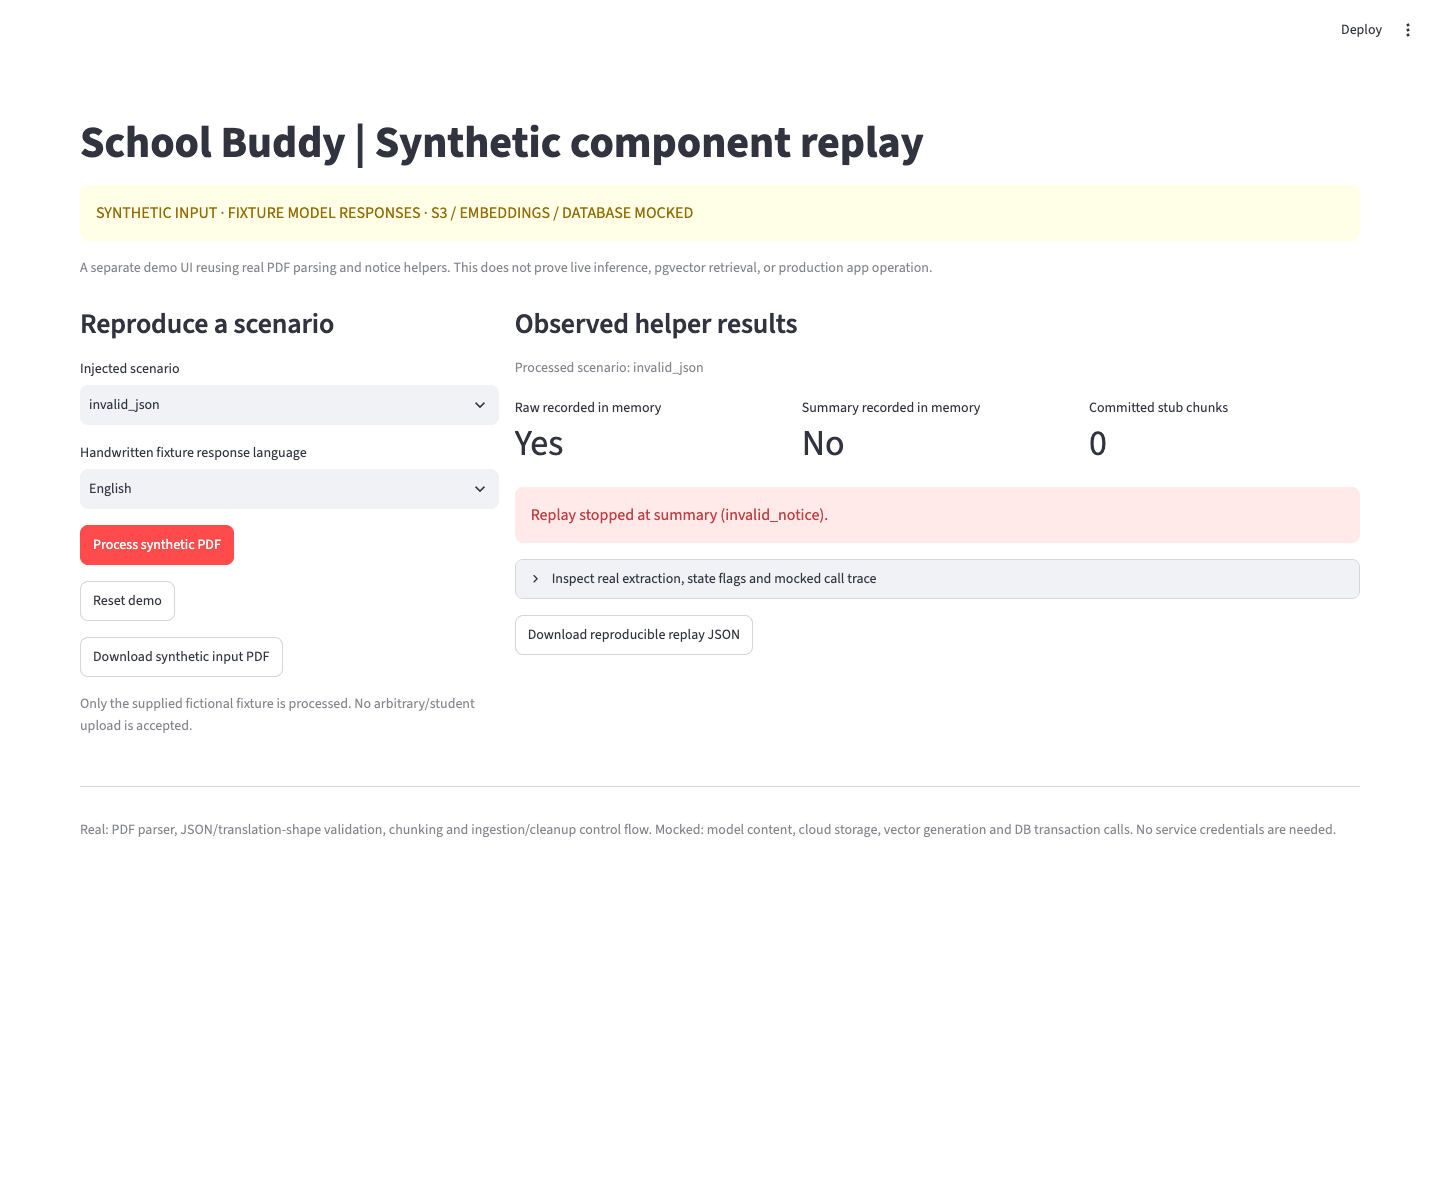
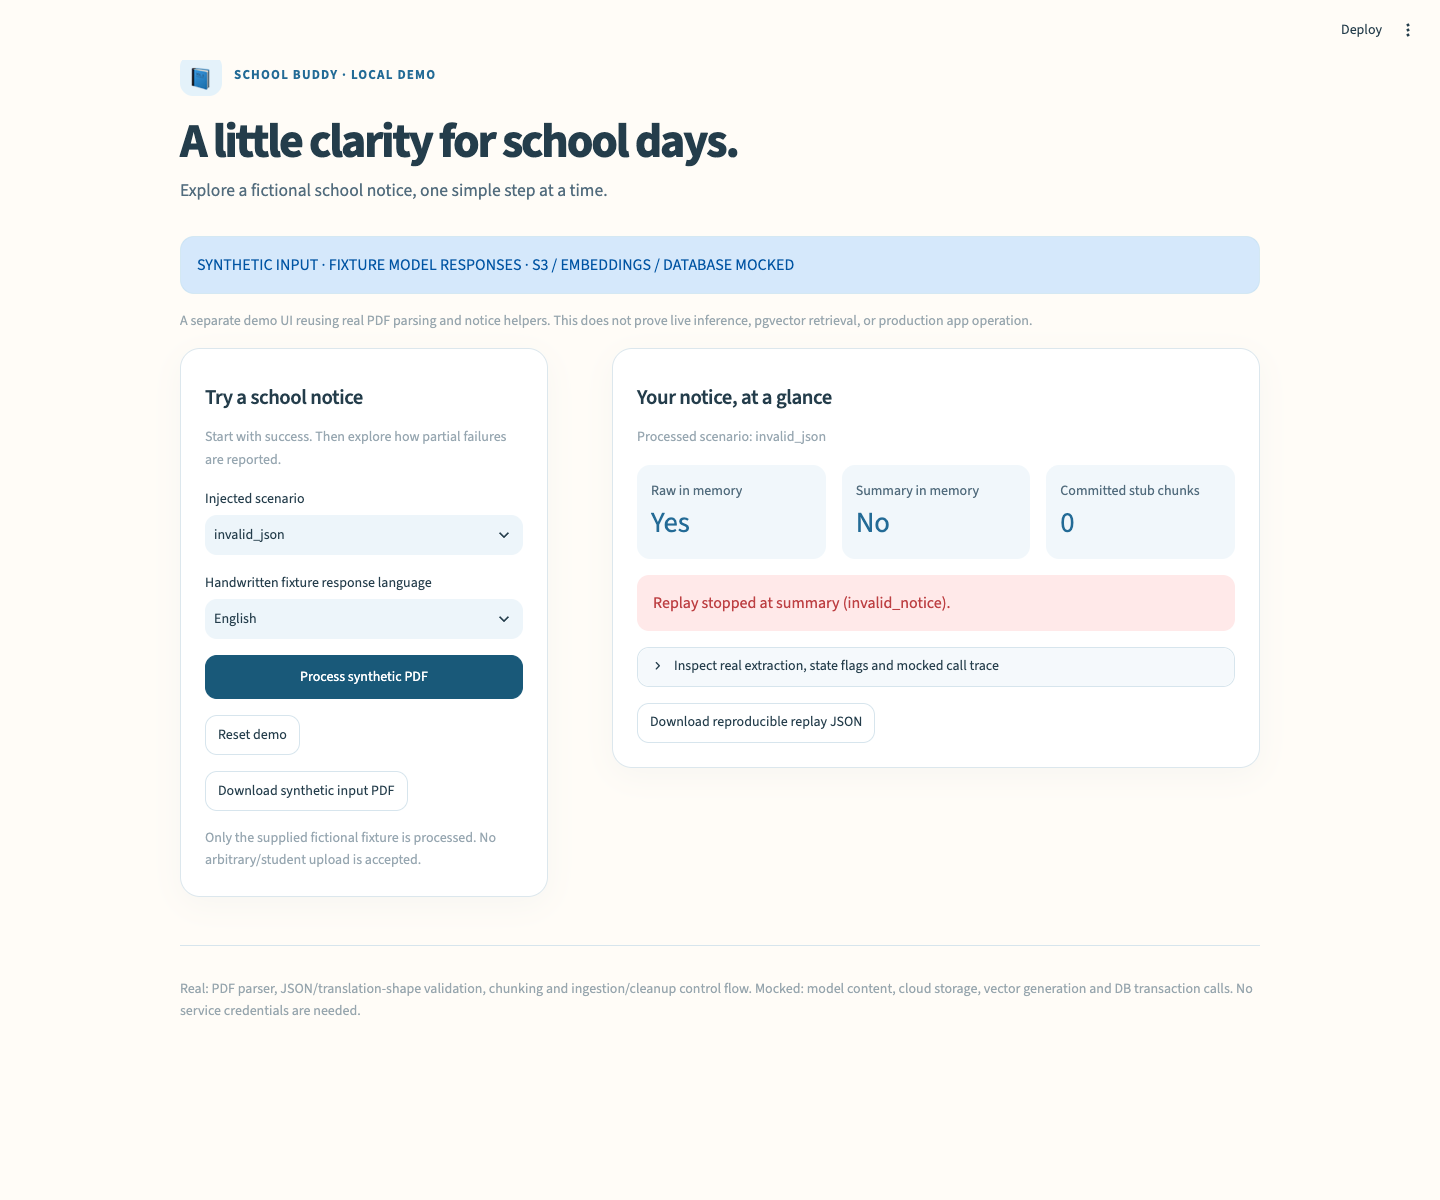
Give the synthetic notice demo a light SchoolBuddy interface

diff --git a/demo_style.css b/demo_style.css
@@ -1,0 +1,92 @@
+/* Local synthetic demo only. No imported fonts, scripts or remote assets. */
+[data-testid="stApp"] {
+  background: #fffcf7;
+  color: #243d4b;
+  color-scheme: light;
+}
+[data-testid="stHeader"] { background: #fffcf7; }
+[data-testid="stMainBlockContainer"] {
+  max-width: 1240px;
+  padding-top: 3.4rem;
+  padding-bottom: 2.5rem;
+}
+.buddy-brand {
+  display: flex;
+  align-items: center;
+  gap: 12px;
+  color: #236b96;
+  font-size: 13px;
+  font-weight: 700;
+  letter-spacing: 0.09em;
+}
+.buddy-book {
+  width: 42px;
+  height: 42px;
+  padding: 8px;
+  display: grid;
+  place-items: center;
+  font-size: 22px;
+  border-radius: 13px;
+  background: #e4f2fa;
+}
+.buddy-hero h1 {
+  margin: 18px 0 7px;
+  color: #243d4b;
+  font-size: clamp(2.1rem, 4vw, 3rem);
+  font-weight: 720;
+  letter-spacing: -0.045em;
+  line-height: 1.13;
+}
+.buddy-hero p {
+  margin: 0 0 16px;
+  color: #526c7d;
+  font-size: 1.1rem;
+}
+.st-key-demo_disclosure [data-testid="stAlert"] {
+  background: #eaf4fa;
+  color: #285c78;
+  border: 1px solid #d4e8f3;
+  border-radius: 14px;
+}
+.st-key-demo_controls, .st-key-demo_results {
+  background: #ffffff;
+  border: 1px solid #dce7ed !important;
+  border-radius: 20px !important;
+  padding: 24px !important;
+  box-shadow: 0 8px 30px rgba(31, 77, 104, 0.035);
+}
+.st-key-demo_controls h3, .st-key-demo_results h3 {
+  color: #243d4b;
+  font-size: 1.3rem;
+  letter-spacing: -0.02em;
+}
+[data-testid="stCaptionContainer"], [data-testid="stCaptionContainer"] p { color: #526c7d; }
+[data-testid="stMetric"] {
+  padding: 14px;
+  background: #f1f7fb;
+  border-radius: 13px;
+}
+[data-testid="stMetricLabel"] { color: #526c7d; }
+[data-testid="stMetricValue"] { color: #236b96; font-size: 1.8rem; }
+.st-key-demo_notice_card {
+  background: #f9fcfe;
+  border: 1px solid #deedf4 !important;
+  border-radius: 15px !important;
+  padding: 20px !important;
+}
+.st-key-demo_notice_card h3 { font-size: 1.15rem; }
+[data-testid="stBaseButton-primary"] {
+  background: #236b96;
+  color: white;
+  border-color: #236b96;
+  min-height: 44px;
+  font-weight: 600;
+}
+[data-testid="stBaseButton-primary"]:hover { background: #195979; border-color: #195979; }
+button:focus-visible { outline: 3px solid #68a9ce !important; outline-offset: 3px; }
+[data-testid="stExpander"] { border-color: #dce7ed; }
+[data-testid="stExpander"] summary { background: #f5f9fc; }
+@media (max-width: 640px) {
+  [data-testid="stMainBlockContainer"] { padding: 5rem 1rem 2rem; }
+  .st-key-demo_controls, .st-key-demo_results { padding: 18px !important; }
+}

diff --git a/demo_notice.py b/demo_notice.py
@@ -4,30 +4,40 @@ import json
 
 import streamlit as st
 
-from demo_replay import PDF_PATH, SCENARIOS, fixture_responses, run_demo
+from demo_replay import PDF_PATH, ROOT, SCENARIOS, fixture_responses, run_demo
 from notice_helpers import translated_notice_or_original
 
 
-st.set_page_config(page_title="School Buddy - synthetic component demo", page_icon="📄", layout="wide")
-st.title("School Buddy | Synthetic component replay")
-st.warning("SYNTHETIC INPUT · FIXTURE MODEL RESPONSES · S3 / EMBEDDINGS / DATABASE MOCKED")
+st.set_page_config(page_title="School Buddy - synthetic component demo", page_icon="📘", layout="wide")
+st.html(ROOT / "demo_style.css")
+st.html('''<header class="buddy-hero">
+  <div class="buddy-brand">
+    <span class="buddy-book" aria-hidden="true">📘</span>
+    <span>SCHOOL BUDDY · LOCAL DEMO</span>
+  </div>
+  <h1>A little clarity for school days.</h1>
+  <p>Explore a fictional school notice, one simple step at a time.</p>
+</header>''')
+with st.container(key="demo_disclosure"):
+    st.info("SYNTHETIC INPUT · FIXTURE MODEL RESPONSES · S3 / EMBEDDINGS / DATABASE MOCKED")
 st.caption("A separate demo UI reusing real PDF parsing and notice helpers. This does not prove live inference, pgvector retrieval, or production app operation.")
 
-left, right = st.columns([1, 2])
-with left:
-    st.subheader("Reproduce a scenario")
+left, right = st.columns([1, 1.7], gap="large")
+with left, st.container(border=True, key="demo_controls"):
+    st.subheader("Try a school notice")
+    st.caption("Start with success. Then explore how partial failures are reported.")
     scenario = st.selectbox("Injected scenario", SCENARIOS, key="demo_scenario")
     fixtures = fixture_responses()
     language = st.selectbox("Handwritten fixture response language", list(fixtures["translations"]), key="demo_language")
-    if st.button("Process synthetic PDF", type="primary", key="demo_run"):
+    if st.button("Process synthetic PDF", type="primary", key="demo_run", width="stretch"):
         st.session_state["demo_snapshot"] = run_demo(scenario)
     if st.button("Reset demo", key="demo_reset"):
         st.session_state.pop("demo_snapshot", None)
     st.download_button("Download synthetic input PDF", PDF_PATH.read_bytes(), "synthetic-notice.pdf", "application/pdf")
     st.caption("Only the supplied fictional fixture is processed. No arbitrary/student upload is accepted.")
 
-with right:
-    st.subheader("Observed helper results")
+with right, st.container(border=True, key="demo_results"):
+    st.subheader("Your notice, at a glance")
     snapshot = st.session_state.get("demo_snapshot")
     if snapshot is None:
         st.info("No synthetic notice processed yet. Choose a scenario and process the provided PDF.")
@@ -35,8 +45,8 @@ with right:
         result = snapshot["result"]
         st.caption(f"Processed scenario: {snapshot['scenario']}")
         a, b, c = st.columns(3)
-        a.metric("Raw recorded in memory", "Yes" if result["raw_saved"] else "No")
-        b.metric("Summary recorded in memory", "Yes" if result["summary_saved"] else "No")
+        a.metric("Raw in memory", "Yes" if result["raw_saved"] else "No")
+        b.metric("Summary in memory", "Yes" if result["summary_saved"] else "No")
         c.metric("Committed stub chunks", result["indexed_chunks"])
         if result["indexed"]:
             st.success("Local replay complete: mock commit returned before indexing was marked successful.")
@@ -46,13 +56,20 @@ with right:
             st.error(f"Replay stopped at {result['failed_stage']} ({result['error_code']}).")
         if snapshot["notice"]:
             notice = translated_notice_or_original(snapshot["notice"], fixtures["translations"][language])
-            st.caption("Notice card: handwritten response fixture; shape validation is real, translation quality is not measured.")
-            st.subheader(notice["title"])
-            st.write(notice["summary"])
-            st.json(notice["details"])
-        with st.expander("Inspect real extraction, state flags and mocked call trace", expanded=True):
+            with st.container(border=True, key="demo_notice_card"):
+                st.caption("Handwritten response fixture · Translation quality is not measured")
+                st.subheader(notice["title"])
+                st.write(notice["summary"])
+                date_time, place_action = st.columns(2)
+                with date_time:
+                    st.caption("DATE & TIME")
+                    st.write(f"{notice['details']['date']} · {notice['details']['time']}")
+                with place_action:
+                    st.caption("PLACE & PREPARATION")
+                    st.write(f"{notice['details']['place']} · {notice['details']['action']}")
+        with st.expander("Inspect real extraction, state flags and mocked call trace", expanded=False):
             st.text(snapshot["extracted_text"] or "No text available after this injected failure.")
-            st.json({"result": result, "stored_keys": snapshot["stored_keys"], "fixture_sha256": snapshot["fixture_sha256"]})
+            st.json({"result": result, "notice": snapshot["notice"], "stored_keys": snapshot["stored_keys"], "fixture_sha256": snapshot["fixture_sha256"]})
             st.dataframe(snapshot["trace"], hide_index=True, width="stretch")
         st.download_button("Download reproducible replay JSON", json.dumps(snapshot, ensure_ascii=False, indent=2),
                            f"synthetic-{snapshot['scenario']}.json", "application/json")

diff --git a/tools/capture_demo.py b/tools/capture_demo.py
@@ -32,7 +32,7 @@ def capture(url, executable=None):
             options["executable_path"] = executable
         browser = playwright.chromium.launch(**options)
         context = browser.new_context(viewport={"width": 1440, "height": 1200},
-                                      device_scale_factor=1, locale="en-US")
+                                      device_scale_factor=1, locale="en-US", color_scheme="dark")
 
         def route_request(route):
             if urlparse(route.request.url).hostname in ("127.0.0.1", "localhost"):
@@ -59,10 +59,16 @@ def capture(url, executable=None):
         page.goto(url, wait_until="domcontentloaded", timeout=30000)
         expect(page.get_by_text("No synthetic notice processed yet.", exact=False)).to_be_visible()
         expect(page.get_by_text(BANNER, exact=True)).to_be_visible()
+        expect(page.get_by_test_id("stApp")).to_have_css("background-color", "rgb(255, 252, 247)")
+        scenario_input = page.get_by_role("combobox", name="Injected scenario", exact=True)
+        expect(scenario_input.locator("..")).to_have_css("background-color", "rgb(237, 245, 250)")
+        expect(scenario_input).to_have_css("color", "rgb(36, 61, 75)")
+        expect(page.get_by_text("Start with success.", exact=False)).to_have_css("color", "rgb(82, 108, 125)")
         page.evaluate("document.fonts.ready")
         screenshot("empty")
         page.get_by_role("button", name="Process synthetic PDF", exact=True).click()
         expect(page.get_by_text("Local replay complete:", exact=False)).to_be_visible()
+        expect(page.get_by_role("button", name="Download reproducible replay JSON", exact=True)).to_be_visible()
         screenshot("success")
         for scenario in ("missing_db", "invalid_json"):
             page.get_by_role("combobox").nth(0).click()
@@ -73,15 +79,26 @@ def capture(url, executable=None):
             else:
                 expect(page.get_by_text("Replay stopped at summary (invalid_notice).", exact=True)).to_be_visible()
             expect(page.get_by_text(BANNER, exact=True)).to_be_visible()
+            expect(page.get_by_role("button", name="Download reproducible replay JSON", exact=True)).to_be_visible()
             screenshot(scenario)
         page.get_by_role("button", name="Reset demo", exact=True).click()
         expect(page.get_by_text("No synthetic notice processed yet.", exact=False)).to_be_visible()
+        page.set_viewport_size({"width": 390, "height": 1600})
+        expect(page.get_by_text(BANNER, exact=True)).to_be_visible()
+        expect(page.get_by_role("button", name="Process synthetic PDF", exact=True)).to_be_visible()
+        horizontal_overflow = page.evaluate("document.documentElement.scrollWidth > window.innerWidth")
+        if horizontal_overflow:
+            raise AssertionError("Mobile viewport has horizontal overflow")
+        screenshot("mobile_empty")
         if errors:
             raise AssertionError(f"Browser JavaScript errors: {errors}")
         evidence = {"browser": browser.version, "viewport": {"width": 1440, "height": 1200},
                     "states": ["empty", "success", "missing_db", "invalid_json", "reset"],
                     "javascript_errors": errors, "blocked_external_requests": blocked,
                     "request_audit_scope": "Playwright-routed browser-context HTTP/WebSocket requests only; not OS-wide egress isolation",
+                    "preferred_color_scheme": "dark",
+                    "observed_light_theme": {"background": "rgb(255, 252, 247)", "select_background": "rgb(237, 245, 250)", "caption_color": "rgb(82, 108, 125)"},
+                    "mobile_viewport": {"width": 390, "height": 1600, "horizontal_overflow": horizontal_overflow},
                     "mode": "actual local browser; fixture responses and services mocked",
                     "screenshot_view": "inspection panel collapsed; complete trace in replay JSON"}
         (output / "browser.json").write_text(json.dumps(evidence, indent=2) + "\n", encoding="utf-8")

diff --git a/tests/test_demo_replay.py b/tests/test_demo_replay.py
@@ -135,8 +135,8 @@ class StreamlitDemoTests(OfflineDemoTest):
     def test_empty_success_and_reset_ui_states(self):
         app = self.app()
         self.assertFalse(app.exception)
-        self.assertIn("MOCKED", app.warning[0].value)
-        self.assertIn("No synthetic notice", app.info[0].value)
+        self.assertIn("MOCKED", app.info[0].value)
+        self.assertTrue(any("No synthetic notice" in item.value for item in app.info))
         app.button(key="demo_run").click().run()
         self.assertFalse(app.exception)
         self.assertEqual([metric.value for metric in app.metric], ["Yes", "Yes", "2"])
@@ -144,7 +144,7 @@ class StreamlitDemoTests(OfflineDemoTest):
         app.button(key="demo_reset").click().run()
         self.assertFalse(app.exception)
         self.assertFalse(app.metric)
-        self.assertIn("No synthetic notice", app.info[0].value)
+        self.assertTrue(any("No synthetic notice" in item.value for item in app.info))
 
     def test_missing_database_and_invalid_json_ui_states(self):
         app = self.app()
@@ -156,7 +156,7 @@ class StreamlitDemoTests(OfflineDemoTest):
                 self.assertFalse(app.exception)
                 self.assertEqual([metric.value for metric in app.metric], expected)
                 if scenario == "missing_db":
-                    self.assertIn("indexing is incomplete", app.warning[1].value)
+                    self.assertTrue(any("indexing is incomplete" in item.value for item in app.warning))
                 else:
                     self.assertIn("invalid_notice", app.error[0].value)
 

diff --git a/tools/run_demo.py b/tools/run_demo.py
@@ -1,0 +1,25 @@
+"""Run this synthetic demo with its own light theme and loopback binding."""
+
+import argparse
+from pathlib import Path
+import subprocess
+import sys
+
+
+ROOT = Path(__file__).resolve().parents[1]
+
+
+def command(port):
+    return [sys.executable, "-m", "streamlit", "run", str(ROOT / "demo_notice.py"),
+            "--server.address", "127.0.0.1", "--server.port", str(port),
+            "--server.headless", "true", "--browser.gatherUsageStats", "false",
+            "--server.fileWatcherType", "none", "--theme.base", str(ROOT / "demo_theme.toml")]
+
+
+if __name__ == "__main__":
+    parser = argparse.ArgumentParser(description=__doc__)
+    parser.add_argument("--port", type=int, default=8512)
+    args = parser.parse_args()
+    if not 1024 <= args.port <= 65535:
+        parser.error("Use a port between 1024 and 65535")
+    raise SystemExit(subprocess.call(command(args.port), cwd=ROOT))

diff --git a/docs/synthetic-demo.md b/docs/synthetic-demo.md
@@ -12,10 +12,12 @@ From the `model_optimization` code line containing this demo, use Python 3.11 or
 python3 -m venv .venv
 source .venv/bin/activate
 python -m pip install -r requirements-demo.txt
-python -m streamlit run demo_notice.py --server.address 127.0.0.1 --server.port 8512 --server.headless true --browser.gatherUsageStats false
+python tools/run_demo.py --port 8512
 ```
 
 Open `http://127.0.0.1:8512`. Process the supplied PDF, inspect state flags and the call trace, change the handwritten response language, and reset. Changing the scenario selector does not process anything until **Process synthetic PDF** is clicked. The result identifies its processed scenario.
+
+The launcher applies this demo's local `demo_theme.toml`: warm white background, soft sky-blue controls and readable notice cards. It binds only to loopback, disables usage telemetry and leaves global/project Streamlit configuration unchanged. The synthetic/mock disclosure stays above the controls, and full extraction/state data remains available in the expandable inspection panel. No remote fonts or images are added.
 
 No `.env` or service keys are needed. This entrypoint does not import `test_jaeuk.py`, `boto3`, `psycopg2`, Gemini or Bedrock clients. Objects and rows exist only within each replay's Python memory. There is no arbitrary file upload, external program feed or chat panel.
 
@@ -62,6 +64,7 @@ The supplied one-page [synthetic PDF](../fixtures/synthetic-notice.pdf) contains
 | Evidence | Artifact |
 | --- | --- |
 | Empty screen | [Actual local browser screenshot](demo-evidence/empty.png) |
+| Mobile empty screen | [390-pixel-wide local capture](demo-evidence/mobile_empty.png) |
 | Success | [Screenshot](demo-evidence/success.png) · [replay JSON](demo-evidence/success.json) |
 | DB unavailable | [Screenshot](demo-evidence/missing_db.png) · [replay JSON](demo-evidence/missing_db.json) |
 | Invalid response | [Screenshot](demo-evidence/invalid_json.png) · [replay JSON](demo-evidence/invalid_json.json) |
@@ -80,7 +83,7 @@ python -m compileall -q test_jaeuk.py notice_helpers.py notice_inputs.py demo_no
 
 [`test_demo_replay.py`](../tests/test_demo_replay.py) patches `socket.create_connection`, `socket.socket.connect` and `socket.socket.connect_ex` and covers actual PDF extraction, app PDF/image routing, all injected failure stages, deterministic evidence, four fixture-language cards and empty/success/reset/error states through Streamlit AppTest. A mocked WebSocket-route regression verifies that non-local attempts are recorded and closed while local routes continue. The earlier helper regression suite remains included. Tests do not import the service-backed app. These Python TCP patches are not an OS-wide egress sandbox.
 
-Local validation on Python 3.14.4 passed **33 tests / 63 subtests**, scoped lint and compilation. `python -m unittest discover -s tests -q` also passed all 33 tests. Actual Chrome 153 capture checked empty, success, missing-DB, invalid-response and reset states with no JavaScript errors. The PDF was rendered and inspected separately before use. These observations cover only the listed synthetic/offline boundaries.
+Local validation on Python 3.14.4 passed **33 tests / 63 subtests**, scoped lint and compilation. `python -m unittest discover -s tests -q` also passed all 33 tests. Actual Chrome 153 capture checked empty, success, missing-DB, invalid-response and reset states with no JavaScript errors. Capture emulated a dark system preference and asserted light app/control backgrounds; a 390-pixel-wide viewport had no horizontal overflow. The PDF was rendered and inspected separately before use. These observations cover only the listed synthetic/offline boundaries.
 
 Optional fixture/browser tools:
 

diff --git a/README.md b/README.md
@@ -17,7 +17,7 @@
 
 The integrated entry command is `streamlit run test_jaeuk.py`, after following the setup guide. Running the app can invoke paid models and write to configured S3/DB resources. The offline tests below need no service credentials or service SDK imports.
 
-For a local review, install `requirements-demo.txt` and run `streamlit run demo_notice.py --browser.gatherUsageStats false`. It processes one fictional PDF using the shared parser/helpers; model responses, S3, vectors and DB calls are explicitly mocked. [Actual local screenshots and reproducible JSON](docs/synthetic-demo.md#reproducible-states) show success and partial failures. This separate UI does not validate the live app, model quality or pgvector retrieval.
+For a local review, install `requirements-demo.txt` and run `python tools/run_demo.py`. The launcher applies this demo's light theme and binds only to localhost. It processes one fictional PDF using the shared parser/helpers; model responses, S3, vectors and DB calls are explicitly mocked. [Actual local screenshots and reproducible JSON](docs/synthetic-demo.md#reproducible-states) show success and partial failures. This separate UI does not validate the live app, model quality or pgvector retrieval.
 
 ## Offline checks
 
